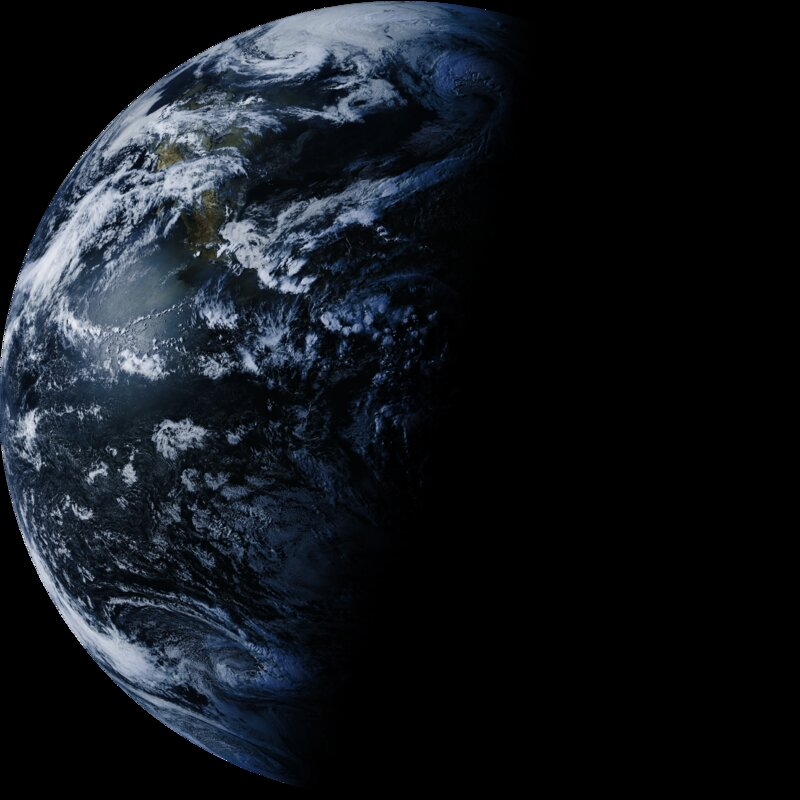
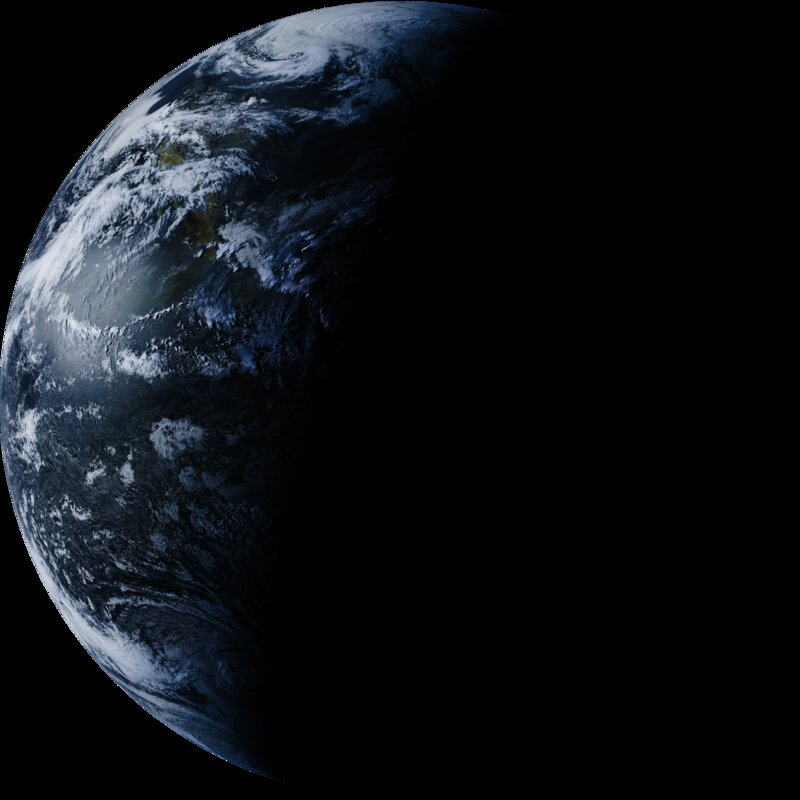
Update: 2026-05-04 01:00 UTC

Changed region(s): [[0.0, 0.0, 0.625, 1.0]]

diff --git a/index.html b/index.html
@@ -75,7 +75,7 @@
                 <div class="timestamp" id="timestamp">Loading...</div>
             </div>
             <a class="img-link" onclick="openLightbox()" href="javascript:void(0)">
-                <img src="latest.jpg?v=1777852802" alt="Latest GOES-19 Full Disk Image" id="satimage">
+                <img src="latest.jpg?v=1777856402" alt="Latest GOES-19 Full Disk Image" id="satimage">
                 <div class="img-overlay">View full screen</div>
             </a>
             <div class="stats-bar">
@@ -139,7 +139,7 @@
     <!-- Lightbox -->
     <div class="lightbox" id="lightbox" onclick="closeLightbox()">
         <div class="lightbox-close" onclick="closeLightbox()">&#x2715;</div>
-        <img src="latest.jpg?v=1777852802" alt="GOES-19 Full Disk" id="lightbox-img">
+        <img src="latest.jpg?v=1777856402" alt="GOES-19 Full Disk" id="lightbox-img">
     </div>
 
     <script>
